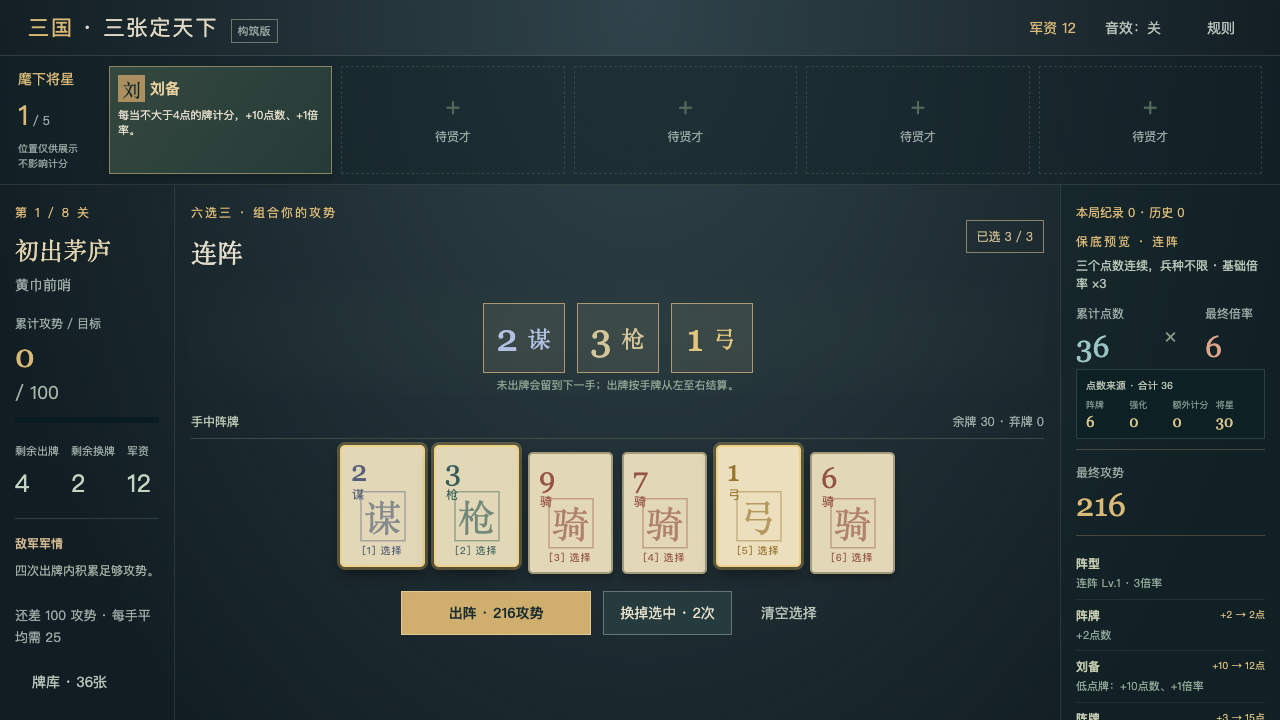
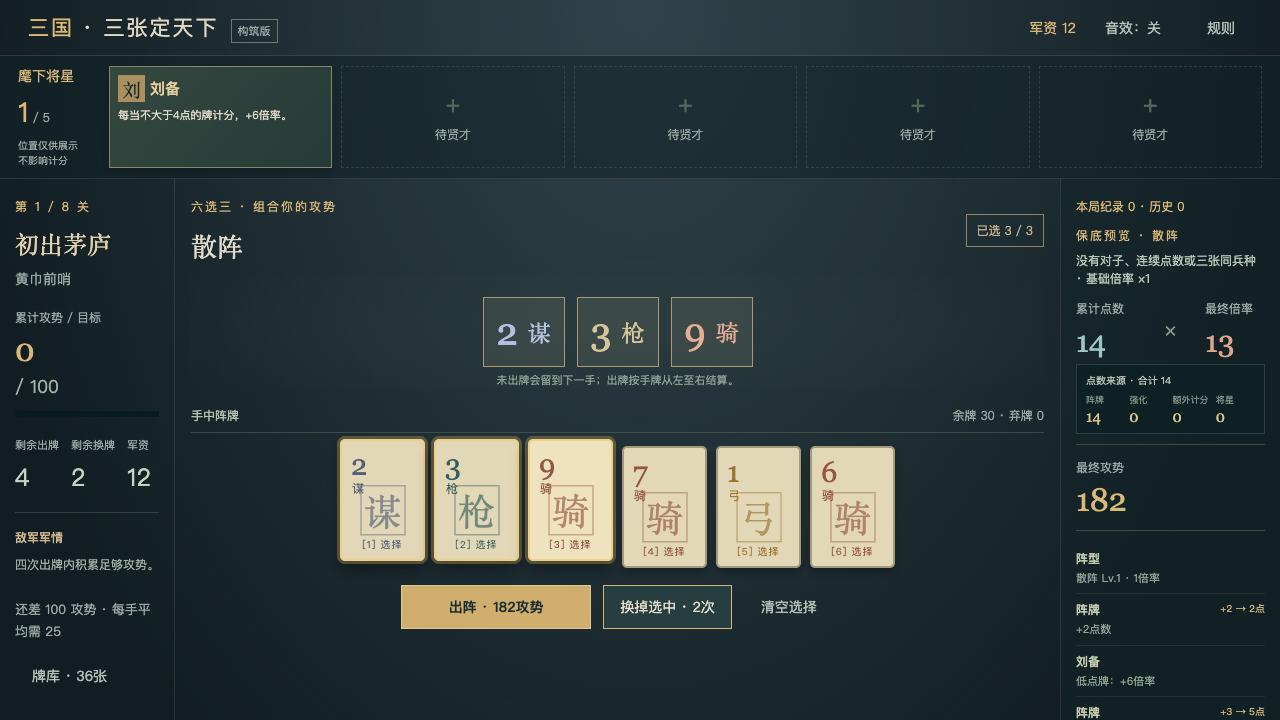
balance Liu Bei around low-rank multiplier

diff --git a/tests/forge.test.ts b/tests/forge.test.ts
@@ -9,9 +9,11 @@ const pair=[c('spear-7',7),c('cavalry-7',7,'cavalry'),c('bow-2',2,'bow')];
 const straight=[c('spear-1',1),c('cavalry-2',2,'cavalry'),c('bow-3',3,'bow')];
 test('stable legacy effects still compose exactly',()=>{assert.equal(ALL_COMPANION_IDS.length,22);const s=fixture(['guanyu','zhangfei','huangzhong','blade'],pair),ids=s.hand;const before=copy(s);const p=previewForge(s,ids);assert.equal(p.chips,77);assert.equal(p.mult,9);assert.equal(p.total,693);assert.deepEqual(s,before);assert.deepEqual(previewForge(s,ids),p);const next=act(s,{type:'play',ids});assert.equal(next.companions[0].growth,1);assert.equal(next.result?.total,693);assert.equal(next.hands,3);assert.equal(forgeAction(next,{seq:s.seq,type:'play',ids}).state,next);});
 test('12 active generals expose shared sources and responses while all 22 stable ids remain loadable',()=>{const names=Object.values(COMPANIONS).map(c=>c.name);assert.equal(new Set(names).size,22);assert.equal(COMPANION_IDS.length,12);assert.deepEqual(COMPANION_IDS.map(id=>COMPANIONS[id].name),['关羽','张飞','马超','陆逊','刘备','诸葛亮','曹操','荀彧','周瑜','貂蝉','孙策','赵云']);for(const id of ['zhangfei','zhouyu','zhaoyun','zhugeliang'] as CompanionId[])assert.match(COMPANIONS[id].text,/额外计分/);for(const id of ['guanyu','pursuit','chain'] as CompanionId[])assert.match(COMPANIONS[id].text,/额外计分/);assert.deepEqual(RARITY_NAMES,{common:'良将',rare:'名将',legendary:'传奇'});});
-test('shared-suit and straight sources stack on one card and feed unrelated responders',()=>{const cards=[c('spear-1',1),c('spear-2',2),c('spear-3',3)],s=fixture(['zhouyu','zhaoyun','liubei','chain','pursuit'],cards),p=previewForge(s,s.hand);assert.equal(p.chips,83);assert.equal(p.mult,25);assert.equal(p.total,2075);assert.equal(p.steps.filter(x=>x.source==='周瑜').length,3);assert.equal(p.steps.filter(x=>x.source==='赵云').length,1);assert.equal(p.steps.filter(x=>x.source==='刘备').length,7);assert.equal(p.steps.filter(x=>x.source==='陆逊').length,4);assert.equal(p.steps.filter(x=>x.cardId==='spear-1'&&['阵牌','额外计分牌'].includes(x.source)).length,3);const sources=p.steps.map(x=>x.source);assert.ok(sources.indexOf('周瑜')<sources.indexOf('额外计分牌')&&sources.indexOf('额外计分牌')<sources.indexOf('陆逊'));const resolved=act(s,{type:'play',ids:s.hand});assert.equal(resolved.result?.floor,p.total);assert.ok(resolved.result!.total>=p.total);assert.ok(resolved.result!.bursts<=3);});
+test('shared-suit and straight sources stack on one card and feed unrelated responders',()=>{const cards=[c('spear-1',1),c('spear-2',2),c('spear-3',3)],s=fixture(['zhouyu','zhaoyun','liubei','chain','pursuit'],cards),p=previewForge(s,s.hand);assert.equal(p.chips,13);assert.equal(p.mult,60);assert.equal(p.total,780);assert.equal(p.steps.filter(x=>x.source==='周瑜').length,3);assert.equal(p.steps.filter(x=>x.source==='赵云').length,1);assert.equal(p.steps.filter(x=>x.source==='刘备').length,7);assert.equal(p.steps.filter(x=>x.source==='陆逊').length,4);assert.equal(p.steps.filter(x=>x.cardId==='spear-1'&&['阵牌','额外计分牌'].includes(x.source)).length,3);const sources=p.steps.map(x=>x.source);assert.ok(sources.indexOf('周瑜')<sources.indexOf('额外计分牌')&&sources.indexOf('额外计分牌')<sources.indexOf('陆逊'));const resolved=act(s,{type:'play',ids:s.hand});assert.equal(resolved.result?.floor,p.total);assert.ok(resolved.result!.total>=p.total);assert.ok(resolved.result!.bursts<=3);});
 test('Guan Yu can grow from a non-pair additional score source',()=>{const s=fixture(['guanyu','zhugeliang'],[c('spear-2',2),c('cavalry-5',5,'cavalry'),c('bow-9',9,'bow')]),p=previewForge(s,s.hand);assert.equal(p.growth.guanyu,1);assert.match(p.steps.find(x=>x.source==='关羽')!.text,/额外计分/);const played=act(s,{type:'play',ids:s.hand});assert.equal(played.companions.find(x=>x.id==='guanyu')?.growth,1);});
-test('low-card effects repeat on last card, once per scoring event',()=>{const s=fixture(['liubei','zhugeliang'],straight);const p=previewForge(s,s.hand);assert.equal(p.chips,49);assert.equal(p.mult,7);assert.equal(p.total,343);});
+test('low-card effects add only multiplier and repeat once per scoring event',()=>{const s=fixture(['liubei','zhugeliang'],straight);const p=previewForge(s,s.hand);assert.equal(p.chips,9);assert.equal(p.mult,27);assert.equal(p.total,243);assert.equal(p.steps.filter(step=>step.source==='刘备').length,4);assert.ok(p.steps.filter(step=>step.source==='刘备').every(step=>step.text==='低点牌：+6倍率'));});
+
+test('Liu Bei turns a 1, 2, 3 straight into 126 without refunding its low points',()=>{const s=fixture(['liubei'],[c('spear-1',1),c('cavalry-2',2,'cavalry'),c('bow-3',3,'bow')]),p=previewForge(s,s.hand);assert.equal(p.chips,6);assert.equal(p.mult,21);assert.equal(p.total,126);});
 test('Zhao Yun starts one extra score for flexible straight rules',()=>{const s=fixture(['zhaoyun','scroll'],[c('spear-1',1),c('cavalry-3',3,'cavalry'),c('bow-5',5,'bow')]),p=previewForge(s,s.hand);assert.equal(p.category,2);assert.equal(p.chips,10);assert.equal(p.steps.filter(x=>x.source==='赵云').length,1);assert.equal(p.steps.filter(x=>x.cardId==='spear-1'&&x.source==='额外计分牌').length,1);});
 test('component display order cannot change additive and multiplicative result',()=>{const s=fixture(['zhouyu','oath'],[c('spear-1',1),c('spear-4',4),c('spear-8',8)]),reversed=copy(s);reversed.companions.reverse();assert.equal(previewForge(s,s.hand).total,previewForge(reversed,reversed.hand).total);});
 test('remaining effects have observable independent contribution',()=>{

diff --git a/tests/settlement-causality.test.ts b/tests/settlement-causality.test.ts
@@ -8,14 +8,14 @@ const steps:ScoreStep[]=[
  {source:'阵牌',text:'+7点数',chips:7,mult:2,cardId:'spear-7'},
  {source:'张飞',text:'7点牌 · 发起第1次额外计分',chips:7,mult:2,cardId:'spear-7'},
  {source:'额外计分牌',text:'+7点数',chips:14,mult:2,cardId:'spear-7'},
- {source:'刘备',text:'低点牌：+10点数、+1倍率',chips:24,mult:3,cardId:'spear-7'},
- {source:'陆逊',text:'响应额外计分：+3倍率',chips:24,mult:6,cardId:'spear-7'},
- {source:'马超',text:'追击成功！追加第1/3次',chips:24,mult:6,cardId:'spear-7'},
- {source:'马超',text:'7点牌 · 发起第2次额外计分',chips:24,mult:6,cardId:'spear-7'},
- {source:'额外计分牌',text:'+7点数',chips:31,mult:6,cardId:'spear-7'},
- {source:'阵牌',text:'+2点数',chips:33,mult:6,cardId:'bow-2'},
+ {source:'刘备',text:'低点牌：+6倍率',chips:14,mult:8,cardId:'spear-7'},
+ {source:'陆逊',text:'响应额外计分：+3倍率',chips:14,mult:11,cardId:'spear-7'},
+ {source:'马超',text:'追击成功！追加第1/3次',chips:14,mult:11,cardId:'spear-7'},
+ {source:'马超',text:'7点牌 · 发起第2次额外计分',chips:14,mult:11,cardId:'spear-7'},
+ {source:'额外计分牌',text:'+7点数',chips:21,mult:11,cardId:'spear-7'},
+ {source:'阵牌',text:'+2点数',chips:23,mult:11,cardId:'bow-2'},
 ];
-const score:Score={category:1,chips:33,mult:6,total:222,steps,cards:[{id:'spear-7',suit:'spear',rank:7,bonus:0},{id:'bow-2',suit:'bow',rank:2,bonus:0},{id:'cavalry-7',suit:'cavalry',rank:7,bonus:0}],growth:{},penalty:1,floor:198,bursts:1};
+const score:Score={category:1,chips:23,mult:11,total:277,steps,cards:[{id:'spear-7',suit:'spear',rank:7,bonus:0},{id:'bow-2',suit:'bow',rank:2,bonus:0},{id:'cavalry-7',suit:'cavalry',rank:7,bonus:0}],growth:{},penalty:1,floor:253,bursts:1};
 
 test('causal chain appears only after a revealed trigger and grows in score-step order',()=>{
  assert.deepEqual(settlementCausalChain(score,2),[]);

diff --git a/packages/content/src/forge.ts b/packages/content/src/forge.ts
@@ -6,7 +6,7 @@ export const COMPANIONS={
  chain:{name:'陆逊',mark:'陆',role:'响应',price:16,text:'每次阵牌额外计分后，+3倍率。',hint:'不区分是谁发起；确定额外计分和马超追击都会放大。',effect:'burst-mult'},
  guanyu:{name:'关羽',mark:'关',role:'成长',price:10,text:'打出对子或本手发生额外计分，关羽永久 +1 倍率；每手一次。',hint:'自己能靠对子成长，也能接入任何额外计分来源。',effect:'pair-growth'},
  zhangfei:{name:'张飞',mark:'张',role:'发起',price:12,text:'含对子时，第一张对子牌额外计分一次。',hint:'让该牌的强化与逐牌将星再次发动。',effect:'pair-repeat'},
- liubei:{name:'刘备',mark:'刘',role:'响应',price:10,text:'每当不大于4点的牌计分，+10点数、+1倍率。',hint:'额外计分时也发动，可接张飞、周瑜、赵云或诸葛亮。',effect:'low-card'},
+ liubei:{name:'刘备',mark:'刘',role:'响应',price:10,text:'每当不大于4点的牌计分，+6倍率。',hint:'额外计分时也发动，可接张飞、周瑜、赵云或诸葛亮。',effect:'low-card'},
  zhouyu:{name:'周瑜',mark:'周',role:'发起',price:10,text:'至少两张同兵种时，这些同兵种牌各额外计分一次。',hint:'两张即可启动；三张同兵种会发起三次接力。',effect:'two-suit'},
  zhaoyun:{name:'赵云',mark:'赵',role:'发起',price:10,text:'打出连阵或同袍连阵时，最低点牌额外计分一次。',hint:'低点牌可以继续触发刘备，也能带动追击。',effect:'straight-growth'},
  huangzhong:{name:'黄忠',mark:'黄',role:'逐牌',price:9,text:'每张点数不小于7的牌计分时，+18点数。',hint:'升点、复制和重触发共同放大高点牌。',effect:'high-chips'},

diff --git a/packages/core/src/forge.ts b/packages/core/src/forge.ts
@@ -46,7 +46,7 @@ function scoreForge(s:ForgeState,ids:string[],resolve:boolean):Score {
    const base=forgeStage(s).rule==='high-armor'&&card.rank>=7?0:card.rank;
    chips+=base+card.bonus;push(trigger?'额外计分牌':'阵牌',`+${base+card.bonus}点数${base===0?'（铁甲减免牌面点数）':''}`,card.id);
    for(const c of s.companions){
-    if(c.id==='liubei'&&card.rank<=4){chips+=10;mult++;push(COMPANIONS[c.id].name,'低点牌：+10点数、+1倍率',card.id);}
+    if(c.id==='liubei'&&card.rank<=4){mult+=6;push(COMPANIONS[c.id].name,'低点牌：+6倍率',card.id);}
     if(c.id==='huangzhong'&&card.rank>=7){chips+=18;push(COMPANIONS[c.id].name,'高点牌：+18点数',card.id);}
     if(c.id==='blade'&&card.rank>=7){mult+=2;push(COMPANIONS[c.id].name,'高点牌：+2倍率',card.id);}
     if(c.id==='diaochan'&&card.suit==='scheme'){mult+=2;push(COMPANIONS[c.id].name,'谋牌：+2倍率',card.id);}

diff --git a/openspec/changes/focus-liubei-on-low-rank-multiplier/design.md b/openspec/changes/focus-liubei-on-low-rank-multiplier/design.md
@@ -1,0 +1,38 @@
+## Context
+
+刘备当前对每张不大于4点的计分牌同时给予+10点数和+1倍率。以1、2、3连阵为例，刘备单独把结果从18提高到216，既消除了选择低点牌的点数损失，也放大倍率。现有模拟显示刘备整体通关率并非最高，因此本次针对的是前期曲线与选择结构，而不是直接追求降低总通关率。
+
+## Goals / Non-Goals
+
+**Goals:**
+
+- 让低点牌提供倍率、较高点牌提供基础点数，形成可读取舍。
+- 保留刘备与额外计分的自由组合关系。
+- 用单点数值改动验证刘备的选牌身份。
+
+**Non-Goals:**
+
+- 不调整第一关目标或其他将星来补偿刘备。
+- 不改变追击、战后流程、招募概率和存档。
+- 不增加资源、状态或例外规则。
+
+## Decisions
+
+刘备每次低点牌计分只增加6倍率。保留倍率而非固定点数，是因为倍率需要由牌面、强化或其他将星提供点数来承接，会持续影响六选三；固定点数则直接补回低点牌的主要代价。额外计分仍作为一次新的牌计分触发刘备，不新增触发限制。
+
+倍率幅度采用200局固定模拟比较：+1、+2、+3、+4、+5、+6的刘备通关率分别为2.5%、7%、16.5%、24.5%、35.5%、45.5%。+6仍低于原版63.5%，但已接近周瑜同批模拟的53%，同时把1、2、3连阵从216降至126。
+
+本轮停止条件是：规则与浏览器测试通过，三开局模拟中刘备仍能完成征程，并记录修改后的通关率与首关表现。若刘备整体失去可行性，应修改单次倍率幅度，而不是重新加入点数与倍率双重收益。
+
+## Risks / Trade-offs
+
+- [刘备开局反馈可能从过强变为偏弱] → 通过固定种子首关测试和200局模拟观察，不联动调整关卡。
+- [额外计分仍可能让刘备后期快速叠倍率] → 这是保留的组合上限，后续以实际构筑分布判断，不在本轮增加上限。
+
+## Migration Plan
+
+既有存档中的刘备直接采用新能力，无结构迁移。回滚时恢复规则与内容文案即可。
+
+## Open Questions
+
+无。

diff --git a/docs/evidence/LIUBEI_MULTIPLIER_ONLY_V07.md b/docs/evidence/LIUBEI_MULTIPLIER_ONLY_V07.md
@@ -1,0 +1,39 @@
+# v0.7 刘备倍率单线验证
+
+刘备从“每当不大于4点的牌计分，+10点数、+1倍率”改为“每当不大于4点的牌计分，+6倍率”。本轮只改变刘备的单次倍率幅度，未修改其他将星、牌型、关卡、追击、奖励或存档。
+
+## 选择结构
+
+刘备不再补偿低点牌缺少的基础点数。低点牌用于积累倍率，较高点数、强化和其他将星用于提供被倍率放大的点数，因此玩家需要在触发次数与基础点数之间取舍。额外计分仍会让低点牌再次触发刘备。
+
+三种兵种的1、2、3组成连阵时：
+
+- 累计点数：6。
+- 连阵基础倍率：3。
+- 刘备触发三次：+18倍率。
+- 最终攻势：`6 × 21 = 126`，原版为216。
+
+## 幅度校准
+
+使用相同的200局公开信息贪心脚本比较倍率幅度；脚本不换牌、不加压，不代表真人胜率：
+
+| 刘备每次触发 | 通关率 |
+| --- | ---: |
+| +1倍率 | 2.5% |
+| +2倍率 | 7% |
+| +3倍率 | 16.5% |
+| +4倍率 | 24.5% |
+| +5倍率 | 35.5% |
+| +6倍率 | 45.5% |
+
+最终采用+6倍率。正式三开局模拟结果为关羽88%、周瑜53%、刘备45.5%；刘备低于原版63.5%，但没有像+1倍率版本一样失去征程可行性。
+
+## 验证结果
+
+- 单元测试：45项通过，包括1、2、3固定示例和额外计分重复触发。
+- 浏览器测试：10项通过，包括完整八关征程、Boss、存档和结算反馈。
+- 生产构建、macOS arm64和Windows x64交叉打包通过。
+- macOS arm64打包应用完成完整征程、极限挑战、暂停和重启恢复验证。
+- OpenSpec严格验证通过。
+
+Windows结果是交叉打包产物，仍不代表Windows原生运行验证。

diff --git a/openspec/changes/focus-liubei-on-low-rank-multiplier/specs/low-rank-multiplier-build/spec.md b/openspec/changes/focus-liubei-on-low-rank-multiplier/specs/low-rank-multiplier-build/spec.md
@@ -1,0 +1,23 @@
+## ADDED Requirements
+
+### Requirement: Liu Bei trades base points for multiplier growth
+Whenever a card with rank 4 or lower scores, Liu Bei SHALL add exactly 6 multiplier and SHALL NOT add points.
+
+#### Scenario: A low-rank card scores normally
+- **WHEN** a card with rank 4 or lower scores while Liu Bei is owned
+- **THEN** the current multiplier increases by 6 and the card receives no points from Liu Bei
+
+#### Scenario: A high-rank card scores
+- **WHEN** a card with rank 5 or higher scores while Liu Bei is owned
+- **THEN** Liu Bei does not change points or multiplier
+
+#### Scenario: A low-rank card scores again
+- **WHEN** an additional-score effect causes a card with rank 4 or lower to score again
+- **THEN** Liu Bei adds 6 multiplier for that additional scoring event without adding points
+
+### Requirement: The Liu Bei experiment remains isolated
+The Liu Bei adjustment SHALL NOT modify other generals, formation multipliers, stage targets, pursuit probability, reward flow, save shape, or random consumption order.
+
+#### Scenario: Existing systems resolve around Liu Bei
+- **WHEN** a run uses any existing formation, general, pursuit, reward, or save behavior
+- **THEN** only Liu Bei's removed point gain differs from the preceding version

diff --git a/openspec/changes/focus-liubei-on-low-rank-multiplier/proposal.md b/openspec/changes/focus-liubei-on-low-rank-multiplier/proposal.md
@@ -1,0 +1,23 @@
+## Why
+
+刘备当前在低点牌每次计分时同时增加点数和倍率，使低点牌的基础点数劣势被完全补偿，并形成自我乘算。需要让刘备只提供倍率，使玩家在低点触发次数与基础点数之间做取舍。
+
+## What Changes
+
+- 刘备改为：每当不大于4点的牌计分，+6倍率。
+- 移除刘备每次触发的+10点数；倍率幅度由三开局模拟校准。
+- 保持额外计分再次触发刘备的既有规则。
+- 不修改其他将星、关卡目标、牌型、追击、经济或战后流程。
+
+## Capabilities
+
+### New Capabilities
+
+- `low-rank-multiplier-build`: 刘备通过低点牌计分积累倍率，同时保留低点牌基础点数较低的构筑代价。
+
+### Modified Capabilities
+
+
+## Impact
+
+影响规则内核中的刘备结算、将星内容说明、设计文档、自动测试与模拟基线。存档结构和随机顺序不变。

diff --git a/docs/CONTENT.md b/docs/CONTENT.md
@@ -8,7 +8,7 @@
 | 张飞 | 发起 | 12 | 含对子时，第一张对子牌额外计分一次。 |
 | 马超 | 接力 | 12 | 每次额外计分后，35%概率让该牌再额外计分；每手最多追击3次。 |
 | 陆逊 | 响应 | 16 | 每次阵牌额外计分后，+3倍率。 |
-| 刘备 | 响应 | 10 | 每当不大于4点的牌计分，+10点数、+1倍率。 |
+| 刘备 | 响应 | 10 | 每当不大于4点的牌计分，+6倍率。 |
 | 诸葛亮 | 发起 | 14 | 最右侧出牌额外计分一次。 |
 | 曹操 | 经济 | 8 | 每次换牌获得2军资。 |
 | 荀彧 | 精简 | 8 | 王佐简兵：牌库少于36张时，每少一张，+6点数。 |

diff --git a/openspec/changes/focus-liubei-on-low-rank-multiplier/tasks.md b/openspec/changes/focus-liubei-on-low-rank-multiplier/tasks.md
@@ -1,0 +1,11 @@
+## 1. Rule Change
+
+- [x] 1.1 Remove Liu Bei's low-rank point gain while retaining multiplier gain per scoring event
+- [x] 1.2 Update Liu Bei content and design documentation
+
+## 2. Verification
+
+- [x] 2.1 Update rule and browser expectations for multiplier-only Liu Bei scoring
+- [x] 2.2 Add a fixed first-stage assertion for the 1, 2, 3 example
+- [x] 2.3 Run unit, build, browser, simulation, packaging, and desktop smoke checks
+- [x] 2.4 Record results and strictly validate the OpenSpec change
